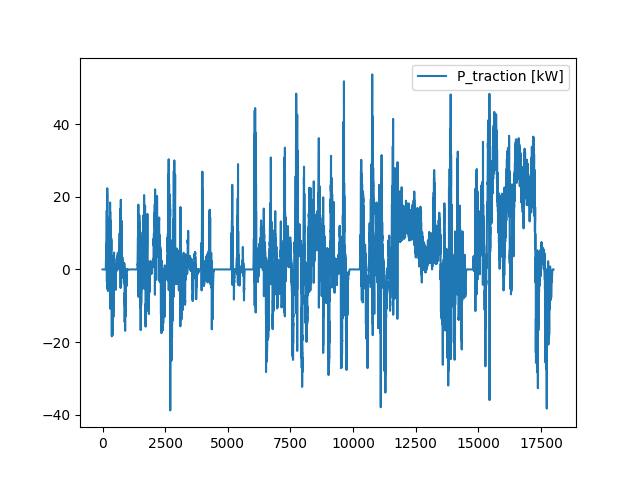
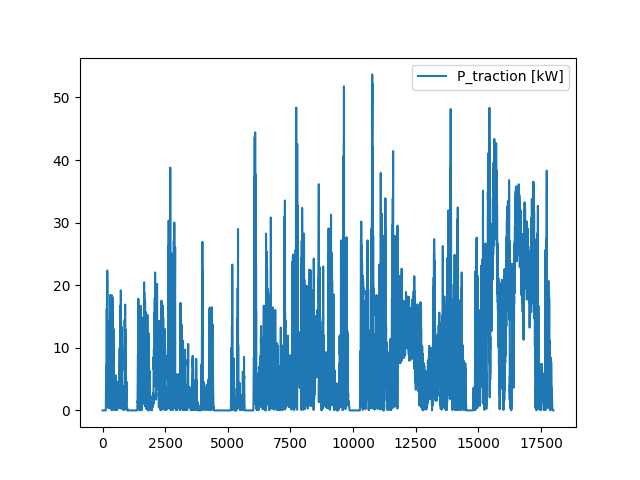
question 8 ok !

diff --git a/src/calculs.py b/src/calculs.py
@@ -148,11 +148,11 @@ def calculCoupleEffectifMoteur(F_tot, F_resistif, N_mot):
 
     # [kW] Puissance de traction
     P_traction = [
-        F_traction[i] * conversionKmhToMs(v_veh[i]) / 1000 for i in range(nbEtapes)
+        abs(F_traction[i]) * conversionKmhToMs(v_veh[i]) / 1000 for i in range(nbEtapes)
     ]
     plot(P_traction, "P_traction [kW]")
 
-    return Pe_mot, P_traction, Ce_mot
+    return Pe_mot, P_traction, Ce_mot, F_traction
 
 
 def calculRendementEffectifConsoEtCO2(N_mot, Pe_mot):
@@ -228,26 +228,30 @@ def evaluationAdaptationSurCycle(N_mot, Ce_mot):
     plt.savefig(filename, transparent=False)
 
 
-def evaluationPotentielDeceleration(P_traction, distance_totale):
+def evaluationPotentielDeceleration(P_traction, distance_totale, F_traction):
     """8. Evaluation du potentiel de récupération d'énergie à la décélération"""
 
     # [kW] Puissance  de  traction lorsque l’effort de traction est positif
-    P_traction_ap = [max(P_traction[i], 0) for i in range(nbEtapes)]
+    P_traction_ap = [
+        P_traction[i] if F_traction[i] >= 0 else 0 for i in range(nbEtapes)
+    ]
     plot(P_traction_ap, "P_traction_ap [kW]")
 
     # [kW] Puissance  de  traction lorsque l’effort de traction est négatif
-    P_traction_an = [min(P_traction[i], 0) for i in range(nbEtapes)]
+    P_traction_an = [
+        P_traction[i] if F_traction[i] <= 0 else 0 for i in range(nbEtapes)
+    ]
     plot(P_traction_an, "P_traction_an [kW]")
 
     # [kW.h] Energie de traction lorsque le conducteur demande un couple positif
     dict_valeursGlobales["E_traction_ap"] = sum(
-        P_traction_ap[i] * conversionSecondeToHeure(delta_t) for i in range(nbEtapes)
-    )
+        P_traction_ap[i] for i in range(nbEtapes)
+    ) * conversionSecondeToHeure(delta_t)
 
     # [kW.h] Energie de traction lorsque le conducteur demande un couple négatif
     dict_valeursGlobales["E_traction_an"] = sum(
-        P_traction_an[i] * conversionSecondeToHeure(delta_t) for i in range(nbEtapes)
-    )
+        P_traction_an[i] for i in range(nbEtapes)
+    ) * conversionSecondeToHeure(delta_t)
 
     # [kW.h] Energie disponible à la roue si l’intégralité de E_traction_an est récupérée
     dict_valeursGlobales["E_traction_elec"] = (
@@ -259,7 +263,7 @@ def evaluationPotentielDeceleration(P_traction, distance_totale):
     )
     # [-] Rendement de traction thermique
     dict_valeursGlobales["rend_traction_therm"] = (
-        dict_valeursGlobales["E_traction_therm"] / dict_valeursGlobales["E_carb"]
+        dict_valeursGlobales["E_traction_ap"] / dict_valeursGlobales["E_carb"]
     )
     # [kW.h] Energie à introduire sous forme de carburant
     dict_valeursGlobales["E_carb_hyb"] = (
@@ -271,17 +275,16 @@ def evaluationPotentielDeceleration(P_traction, distance_totale):
     dict_valeursGlobales["eco_E_carb"] = (
         dict_valeursGlobales["E_carb"] - dict_valeursGlobales["E_carb_hyb"]
     )
-    # FIXME
-    if dict_valeursGlobales["eco_E_carb"] != 0:
-        # [kg] Réduction de consommation de carburant
-        eco_carburant_masse = (
-            conversionMJTokWh(PCI) / dict_valeursGlobales["eco_E_carb"]
-        )
-        # [L] Réduction de consommation de carburant
-        dict_valeursGlobales["eco_V_carb"] = conversionCarburantKgToLitres(
-            eco_carburant_masse
-        )
-        # [L/100km] Réduction de consommation
-        dict_valeursGlobales["eco_C"] = (
-            dict_valeursGlobales["eco_V_carb"] * 100 / distance_totale
-        )
+
+    # [kg] Réduction de consommation de carburant
+    eco_carburant_masse = dict_valeursGlobales["eco_E_carb"] / conversionMJTokWh(PCI)
+
+    # [L] Réduction de consommation de carburant
+    dict_valeursGlobales["eco_V_carb"] = conversionCarburantKgToLitres(
+        eco_carburant_masse
+    )
+
+    # [L/100km] Réduction de consommation
+    dict_valeursGlobales["eco_C"] = (
+        dict_valeursGlobales["eco_V_carb"] * 100 / distance_totale
+    )

diff --git a/src/main.py b/src/main.py
@@ -7,10 +7,12 @@ def main():
     F_resistif = calculEffortsResistifs()
     M = calculMasses()
     F_tot = calculEffortTotal(M)
-    Pe_mot, P_traction, Ce_mot = calculCoupleEffectifMoteur(F_tot, F_resistif, N_mot)
+    Pe_mot, P_traction, Ce_mot, F_traction = calculCoupleEffectifMoteur(
+        F_tot, F_resistif, N_mot
+    )
     distance_totale = calculRendementEffectifConsoEtCO2(N_mot, Pe_mot)
     evaluationAdaptationSurCycle(N_mot, Ce_mot)
-    evaluationPotentielDeceleration(P_traction, distance_totale)
+    evaluationPotentielDeceleration(P_traction, distance_totale, F_traction)
     valeursGlobales.printAll()
 
 
